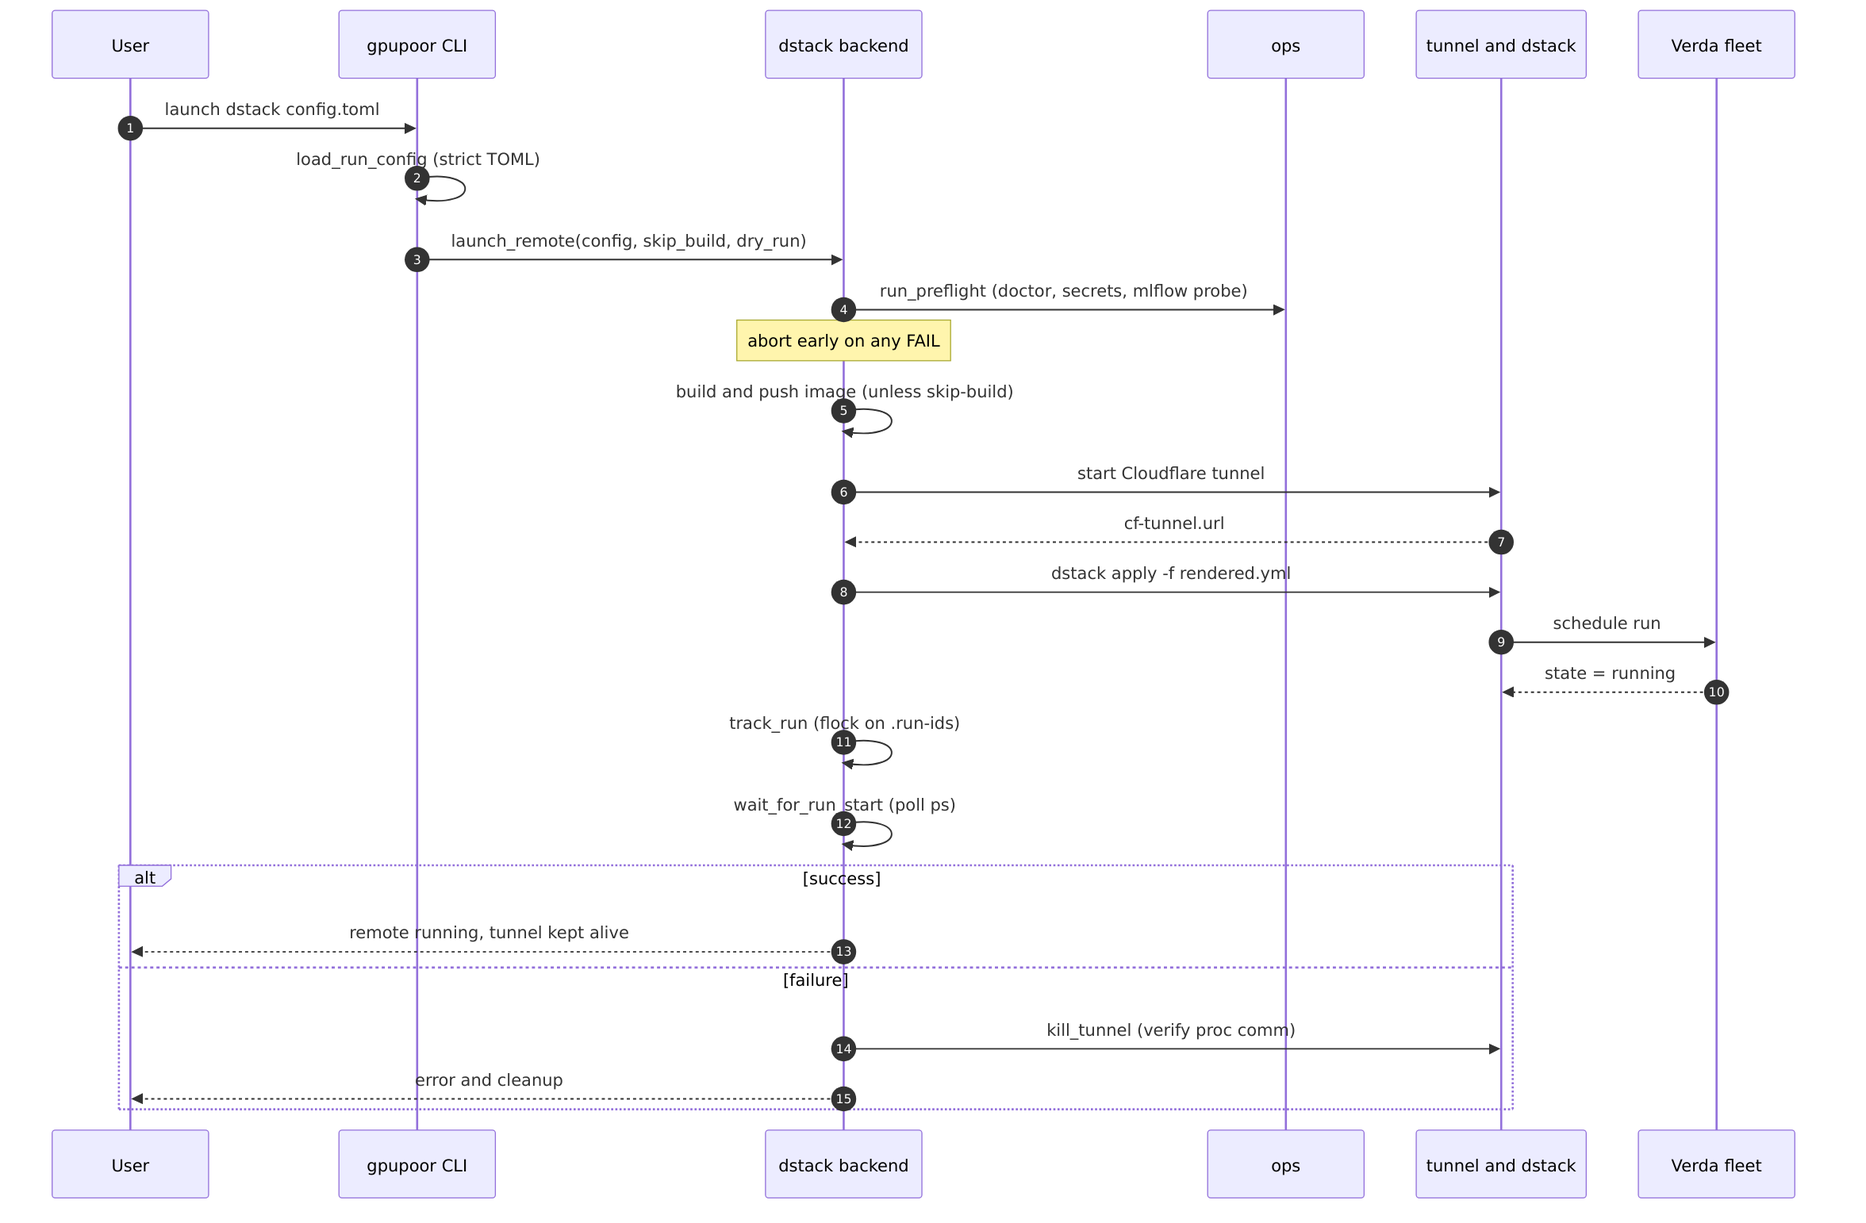
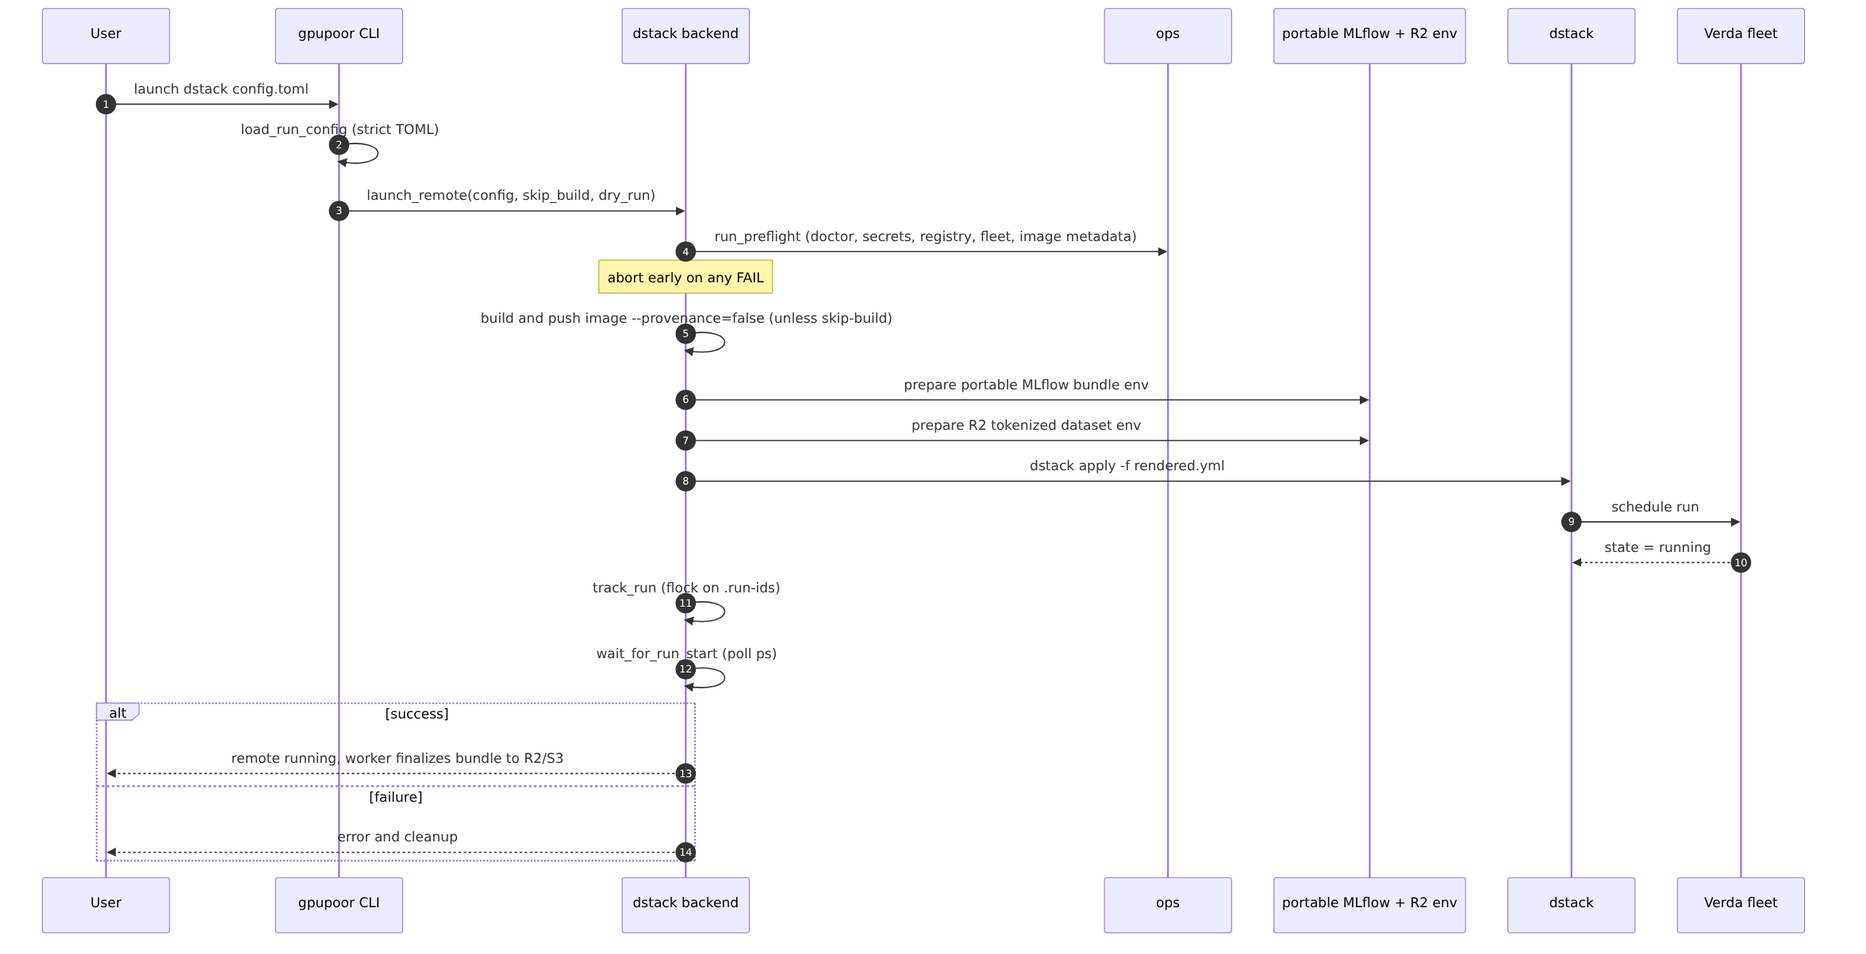
Document the live RunPod MiniMind operating path
Capture the current remote training system after the RTX 5090 validation: TOML transport, dstack launch policy, direct RunPod recovery, bounded R2 tokenized dataset pulls, portable MLflow bundle finalization, and the SSH-inspectable remote image contract. Keep this as documentation-only cleanup so protected abstractions remain untouched.

Constraint: The stable public contract remains gpupoor launch dstack with TOML config transport.
Constraint: Direct RunPod deployment is documented as an operator fallback for dstack capacity acquisition failures, not a promoted stable API.
Rejected: Reintroduce host MLflow and Cloudflare tunnel as the primary remote path | portable worker-local MLflow is the current design.
Confidence: high
Scope-risk: narrow
Directive: Do not modify protected trainer abstractions to paper over provider operations; update the docs or concrete launch/runtime layer instead.
Tested: uv run ruff check .
Tested: uv run pytest tests/test_import_boundaries.py tests/test_remote_backend.py

diff --git a/README.md b/README.md
@@ -8,7 +8,7 @@
 ![deps](https://img.shields.io/badge/runtime_deps-0-brightgreen)
 ![target](https://img.shields.io/badge/audience-GPU--poor_researchers-orange)
 
-The **GPU-poor researcher's toolbox.** One typed TOML file drives one reproducible run of the **MiniMind** reference recipe — on your laptop CPU, a single local GPU, or an **auto-allocated preemptible GPU** on Verda/dstack. Live MLflow tracking and cheap-to-fail preflights catch misconfiguration before you spend a cent.
+The **GPU-poor researcher's toolbox.** One typed TOML file drives one reproducible run of the **MiniMind** reference recipe — on your laptop CPU, a single local GPU, or a rented remote GPU through the dstack launch contract. Portable MLflow bundles and cheap-to-fail preflights catch misconfiguration before you spend a cent.
 
 ---
 
@@ -16,11 +16,11 @@ The **GPU-poor researcher's toolbox.** One typed TOML file drives one reproducib
 
 Research and engineering explorations shouldn't require a lab budget. `gpupoor` targets the gap between "train in Colab" and "run on a real cluster":
 
-- **Preemptible auto-allocation.** Declare `spot_policy = "spot"` + `max_price` + `gpu_names` in TOML. The CLI asks dstack for the cheapest **live spot offer** that matches your GPU class (A100, B300, H100 …) and schedules your run. You pay spot rate for the minutes you use — nothing else.
+- **Preemptible auto-allocation.** Declare `spot_policy = "spot"` + `max_price` + `gpu_names` in TOML. The CLI asks dstack for the cheapest **live spot offer** that matches your GPU class (A100, B300, H100, RTX 5090, and similar) and schedules your run. You pay spot rate for the minutes you use — nothing else.
 - **MiniMind as the first-class recipe.** A small-but-complete transformer training loop — not a toy, not a framework. Designed to actually train to completion in minutes on a rented GPU, so you can iterate on architecture/data ideas at research speed.
 - **Identical local ↔ remote contract.** Same TOML, same recipe, same artifacts. Smoke on CPU first, then swap one field (`backend.kind = "dstack"`) and rent a GPU.
 - **Zero runtime dependencies.** The core package adds nothing to your Python environment. Dev extras are opt-in.
-- **Cheap failure first.** `gpupoor doctor` + `gpupoor smoke` verify secrets, clocks, disk, docker, and MLflow reachability before `dstack apply` is ever called. Money-spending calls are the last step, never the first.
+- **Cheap failure first.** `gpupoor doctor` + `gpupoor smoke` verify secrets, clocks, disk, docker, registry policy, R2 access, and the remote image contract before `dstack apply` is ever called. Money-spending calls are the last step, never the first.
 
 ### Who this is for
 
@@ -60,22 +60,23 @@ gpupoor train examples/tiny_local.toml   # tiny MiniMind local run
 
 This is your fast feedback loop. Iterate here until the recipe is happy, then rent a GPU.
 
-### 2. Preemptible GPU on Verda/dstack
+### 2. Preemptible GPU through dstack
 
 ```bash
-gpupoor infra mlflow up                              # local MLflow + Cloudflare tunnel
-gpupoor launch dstack examples/verda_a100_10m.toml   # auto-allocates cheapest preemptible A100
+gpupoor launch dstack examples/verda_a100_10m.toml   # auto-allocates cheapest matching preemptible GPU
 ```
 
 What `launch dstack` actually does:
 
-1. Loads the TOML and runs preflight locally (doctor, mlflow reachable, secrets resolved).
-2. Builds and pushes your training image (skip with `--skip-build` to reuse an existing tag).
-3. Opens a **Cloudflare tunnel** so the remote trainer can stream metrics to *your* local MLflow.
+1. Loads the TOML and runs preflight locally (doctor, secrets, registry, fleet, cached image metadata).
+2. Builds and pushes your training image without provenance attestations, unless `--skip-build` reuses an existing tag.
+3. Passes the portable MLflow bundle contract and bounded R2 tokenized dataset settings into the remote task.
 4. Asks dstack for the cheapest **live preemptible offer** matching `gpu_names`, `gpu_count`, and `max_price`.
-5. Applies the run, tails logs, and keeps the tunnel alive until `gpupoor dstack teardown`.
+5. Applies the run and tails logs while the worker runs MiniMind, writes local MLflow SQLite/artifacts, and uploads the bundle to R2/S3 at finalize.
 
 The TOML in the example sets `max_price = 3.0` USD/hr and `time_cap_seconds = 600` — **bounded at $0.50 per run in the absolute worst case**, and in practice the winning spot bid is usually a small fraction of the ceiling. `time_cap_seconds` is a hard wall-clock ceiling enforced inside the trainer, so the run self-terminates before the price ever surprises you.
+
+For the validated RTX 5090 RunPod operating lane, including the direct RunPod recovery path used when dstack capacity acquisition bounces despite advertised offers, see [docs/runpod-rtx5090-minimind.md](./docs/runpod-rtx5090-minimind.md).
 
 ### 3. Dry-run the remote plan (free)
 
@@ -94,24 +95,24 @@ Prints the resolved `dstack apply` shape (image, env, GPU filter, time cap) with
 ## Architecture
 
 <p align="center">
-  <img src="docs/diagrams/architecture.png" alt="gpupoor architecture — CLI and wrapper entrypoints feed typed config, seeker, deployer, and connector control-plane modules, then branch into local or dstack execution with MLflow, Cloudflare, R2, and training runtime dependencies" width="820">
+  <img src="docs/diagrams/architecture.png" alt="gpupoor architecture — CLI and wrapper entrypoints feed typed config, deployer, connector, portable MLflow, local execution, dstack execution, R2, and MiniMind training runtime dependencies" width="820">
 </p>
 
 <sub><a href="./docs/diagrams/architecture.mmd">source (Mermaid)</a></sub>
 
-**Core contract:** the CLI loads one TOML into a `RunConfig` dataclass, resolves the `backend.kind`, and hands off through the current control-plane seams: `seeker` for queued remote placement, `deployer` for launch gating, `connector` for MLflow/tunnel/R2 readiness, and then the local or dstack execution backends. Everything else — MLflow, emulator flows, and repo checks — stays reachable from the same CLI surface.
+**Core contract:** the CLI loads one TOML into a `RunConfig` dataclass, resolves the `backend.kind`, and hands off through the current control-plane seams: `deployer` for launch gating, `connector` for R2/artifact readiness, `services/portable_mlflow.py` for the worker-local tracking bundle, and then the local or dstack execution backends. Everything else — emulator flows, legacy infra helpers, and repo checks — stays reachable from the same CLI surface.
 
 ---
 
 ## Remote launch flow
 
 <p align="center">
-  <img src="docs/diagrams/launch-sequence.png" alt="Remote launch sequence — preflight, build, tunnel, dstack apply, wait, success or cleanup" width="820">
+  <img src="docs/diagrams/launch-sequence.png" alt="Remote launch sequence — preflight, image build, portable MLflow env, R2 dataset settings, dstack apply, wait, success or cleanup" width="820">
 </p>
 
 <sub><a href="./docs/diagrams/launch-sequence.mmd">source (Mermaid)</a></sub>
 
-Source of truth: [`src/gpupoor/backends/dstack.py`](./src/gpupoor/backends/dstack.py) (`launch_remote`, `ensure_dstack_server`, `track_run`, `kill_tunnel`).
+Source of truth: [`src/gpupoor/backends/dstack.py`](./src/gpupoor/backends/dstack.py) (`launch_remote`, `ensure_dstack_server`, `track_run`) plus [`src/gpupoor/services/portable_mlflow.py`](./src/gpupoor/services/portable_mlflow.py).
 
 ---
 
@@ -123,7 +124,7 @@ gpupoor <command> [flags]
 
 | Command                                                     | Purpose                                                             | Notable flags                                |
 | ----------------------------------------------------------- | ------------------------------------------------------------------- | -------------------------------------------- |
-| `gpupoor doctor [config.toml]`                              | Local preflight: clocks, disk, docker, HF token, MLflow reachability | `--skip-preflight`, `--max-clock-skew N`     |
+| `gpupoor doctor [config.toml]`                              | Local preflight: clocks, disk, docker, HF token, registry, R2/artifact readiness | `--skip-preflight`, `--max-clock-skew N`     |
 | `gpupoor smoke [config.toml]`                               | End-to-end smoke against the local emulator                         | `--cpu`, `--prune-volumes`, `--skip-preflight` |
 | `gpupoor fix-clock [config.toml]`                           | Resync WSL/container clock against host                             | —                                            |
 | `gpupoor parse-secrets [secrets]`                           | Resolve `secrets` file into `.env.*` format                         | —                                            |
@@ -133,7 +134,7 @@ gpupoor <command> [flags]
 | `gpupoor launch dstack <config.toml>`                       | Launch the remote backend                                           | `--skip-build`, `--dry-run`                  |
 | `gpupoor deploy local-emulator <config.toml>`               | Canonical local pre-remote validation via the remote wrapper contract | —                                          |
 | `gpupoor dstack <setup\|registry-login\|fleet-apply\|teardown>` | dstack lifecycle helpers                                            | `--dry-run` (`registry-login`)               |
-| `gpupoor infra mlflow <up\|down\|logs\|tunnel>`             | MLflow + Cloudflare tunnel                                          | —                                            |
+| `gpupoor infra mlflow <up\|down\|logs\|tunnel>`             | Legacy host MLflow + Cloudflare tunnel helper                      | —                                            |
 | `gpupoor infra emulator <up\|cpu\|nvcr\|down\|logs\|shell\|health>` | Pseudo-Verda smoke harness (non-canonical for training validation) | —                                            |
 
 `doctor`, `smoke`, and `launch dstack` resolve operational defaults from the typed TOML config first; CLI flags are one-off overrides.
@@ -152,7 +153,7 @@ Every run is one TOML file. Unknown keys are rejected at load time.
 | `[mlflow]`   | `MlflowConfig`    | `experiment_name`, `tracking_uri`, `artifact_upload`, `enable_system_metrics_logging`, `http_request_timeout_seconds`, `peak_tflops_per_gpu` (optional override), `time_to_target_metric`, `time_to_target_value` |
 | `[doctor]`   | `DoctorConfig`    | `skip_preflight`, `max_clock_skew_seconds`                                                                        |
 | `[smoke]`    | `SmokeConfig`     | `cpu`, `health_port`, `strict_port`, `degraded_port`, `sigterm_timeout_seconds`, `prune_volumes`                   |
-| `[remote]`   | `RemoteConfig`    | `env_file`, `vcr_image_base`, `dstack_server_health_url`, `mlflow_health_url`, `run_start_timeout_seconds`, `gpu_names`, `gpu_count`, `spot_policy`, `max_price` |
+| `[remote]`   | `RemoteConfig`    | `env_file`, `vcr_image_base`, `dstack_server_health_url`, `run_start_timeout_seconds`, `gpu_names`, `gpu_count`, `spot_policy`, `max_price`, `r2_tokenized_dataset_uri`, `r2_tokenized_dataset_max_files`, `r2_tokenized_dataset_dir` |
 
 Full schema + validators live in [`src/gpupoor/config.py`](./src/gpupoor/config.py).
 
@@ -209,7 +210,7 @@ Three env templates ship at the repo root:
 | Template                | Purpose                                       |
 | ----------------------- | --------------------------------------------- |
 | `.env.example.mgmt`     | Management plane (dstack tokens, registry)    |
-| `.env.example.remote`   | Remote training container (HF, MLflow, tunnel)|
+| `.env.example.remote`   | Remote training container (HF, R2, portable MLflow bundle)|
 | `.env.example.inference`| Inference container (HF, model paths)         |
 
 Copy to the matching `.env.*` name, fill in secrets, and `gpupoor parse-secrets` will resolve them into a form the CLI consumes.
@@ -238,7 +239,7 @@ remote-access/
 ├── training/                    # MiniMind reference code (vendored)
 ├── dstack/                      # Verda/dstack runtime contract
 ├── infrastructure/
-│   ├── mlflow/                  # MLflow container + Cloudflare tunnel
+│   ├── mlflow/                  # legacy host MLflow container + Cloudflare tunnel
 │   └── local-emulator/          # CPU-only smoke harness
 ├── tests/                       # fast-lane regression tests
 ├── data/                        # datasets + caches (gitignored where large)
@@ -263,6 +264,8 @@ Per-component starters (`./training/start.sh`, `./dstack/start.sh`, `./infrastru
 ## Safety posture
 
 - **Strict TOML** — unknown keys rejected; dstack run-names regex-gated.
+- **Image policy** — Docker Hub images use unprefixed names, private registries require auth, and remote builds are checked for no provenance attestations.
+- **Portable artifacts** — remote workers finalize MLflow SQLite/artifact bundles even when training fails.
 - **PID verification** — tunnel teardown verifies `/proc/<pid>/comm` matches `cloudflared` on Linux before `os.kill`.
 - **Concurrent-safe state** — `.run-ids` append is protected by `fcntl.flock`; two concurrent launches cannot corrupt it.
 
@@ -274,8 +277,10 @@ Per-component starters (`./training/start.sh`, `./dstack/start.sh`, `./infrastru
 - [TROUBLESHOOTING.md](./TROUBLESHOOTING.md) — operator recovery playbook
 - [CONTRIBUTING.md](./CONTRIBUTING.md) — contributor guardrails
 - [training/docs/README.md](./training/docs/README.md) — MiniMind recipe internals
+- [docs/runpod-rtx5090-minimind.md](./docs/runpod-rtx5090-minimind.md) — validated RunPod RTX 5090 + R2 + portable MLflow operations
+- [docs/remote-training-smoke.md](./docs/remote-training-smoke.md) — Docker/R2/portable MLflow remote contract smoke
 - [dstack/docs/README.md](./dstack/docs/README.md) — Verda/dstack runtime contract
-- [infrastructure/mlflow/docs/README.md](./infrastructure/mlflow/docs/README.md) — MLflow + tunnel
+- [infrastructure/mlflow/docs/README.md](./infrastructure/mlflow/docs/README.md) — legacy host MLflow + tunnel
 - [infrastructure/local-emulator/docs/README.md](./infrastructure/local-emulator/docs/README.md) — emulator smoke harness
 
 ---

diff --git a/docs/runpod-rtx5090-minimind.md b/docs/runpod-rtx5090-minimind.md
@@ -1,0 +1,152 @@
+# RunPod RTX 5090 MiniMind Operations
+
+This document describes the current live GPU operating path validated on
+May 11, 2026. It is an operator note for the existing system, not a new public
+API. The stable launch contract remains TOML-driven `gpupoor launch dstack`;
+the direct RunPod lane is the recovery path used when dstack advertises RTX
+5090 offers but task startup repeatedly returns provider capacity failures.
+
+No secrets belong in committed files or command transcripts.
+
+## Current Flow
+
+```text
+TOML config
+  -> RunConfig dataclasses
+  -> remote image/env selection
+  -> GPUPOOR_RUN_CONFIG_B64
+  -> remote-entrypoint.sh
+  -> bounded R2 tokenized dataset pull
+  -> portable MLflow server in the worker
+  -> run-vendor-minimind.py
+  -> minimind-train
+  -> sync-mlflow-bundle.py
+  -> R2 MLflow bundle
+```
+
+The remote worker is self-contained. It does not require a host MLflow service
+or a Cloudflare tunnel. The worker starts an MLflow server on localhost, writes
+SQLite metadata plus artifacts under `/workspace/mlflow-bundle`, and uploads the
+finished bundle when `MLFLOW_BUNDLE_SYNC_URI` is present.
+
+## Image Contract
+
+The remote image must include:
+
+- gpupoor shared code and `training/scripts/*`.
+- The vendored `training/vendor/minimind_mfu_working` package.
+- PyTorch/CUDA dependencies from the model-training Dockerfile contract.
+- `openssh-server` so a provider-injected `PUBLIC_KEY` can be used for live
+  inspection.
+
+The most recent validated image tag was:
+
+```text
+alextay96/gpupoor:3093fed
+sha256:6ba4e0931daaf911db04e243a9adb5c70c72d95e88ddeaeda8fa52e19a349a38
+```
+
+Remote images are built with `docker buildx build --provenance=false`. dstack
+preflight checks the cached image metadata before a real `dstack apply`, because
+the dstack/dxf manifest path cannot tolerate provenance attestation manifests.
+
+## Dataset Contract
+
+The current remote tokenized dataset is:
+
+```text
+s3://gpu-poor/dataset/processed/tokenized/native-superbpe-1m-rows-max4w/20260503T002359Z
+/workspace/data/datasets/native_superbpe_1m_rows_max4w/20260503T002359Z
+```
+
+The manifest has `2729` parquet parts:
+
+- `78` `final` parts.
+- `2651` `fineweb` parts.
+
+For small live validation, set `R2_TOKENIZED_DATASET_MAX_FILES=80`. That pulls
+all `final` parts plus the first two `fineweb` parts and used about `34G` of
+disk in the validated run. Set the max-files value to `0` only when the worker
+disk is sized for the full prefix.
+
+## Portable MLflow Contract
+
+The host passes environment only:
+
+```text
+GPUPOOR_PORTABLE_MLFLOW=1
+MLFLOW_BUNDLE_DIR=/workspace/mlflow-bundle
+MLFLOW_BUNDLE_SYNC_URI=s3://gpu-poor/mlflow-bundles/<run-id>
+AWS_ACCESS_KEY_ID=...
+AWS_SECRET_ACCESS_KEY=...
+AWS_DEFAULT_REGION=...
+MLFLOW_S3_ENDPOINT_URL=...
+```
+
+The worker script owns server start, process cleanup, and upload. If training
+fails, the bundle is still finalized so the SQLite DB and logs can be inspected.
+
+## Deployment Notes
+
+Use `gpupoor launch dstack --dry-run <config.toml>` before any paid run. A real
+dstack apply must pass:
+
+- Registry policy and credentials checks.
+- No-`docker.io/` image prefix validation.
+- Cached image metadata matching the selected image base/tag.
+- `provenance_attestation=false`.
+- Fleet readiness for the configured fleet.
+
+If dstack repeatedly reports `failed_to_start_due_to_no_capacity` for RTX 5090
+while RunPod itself still has advertised machines, the operational fallback is a
+direct RunPod pod with the same image, env, dataset, and portable MLflow
+contract. That fallback should not be routed through `experiment_executor.py` or
+`experiment_models.py`.
+
+## Monitoring
+
+After direct RunPod allocation, inspect the pod and SSH endpoint:
+
+```bash
+runpodctl pod get <pod-id> -o json
+runpodctl ssh info <pod-id> -o json
+```
+
+SSH with the operator key:
+
+```bash
+ssh -i /home/geeyang/.runpod/ssh/RunPod-Key-Go \
+  -p <ssh-port> root@<ssh-host>
+```
+
+Useful in-worker checks:
+
+```bash
+nvidia-smi
+df -h /workspace
+find /workspace/data/datasets/native_superbpe_1m_rows_max4w/20260503T002359Z -name '*.parquet' | wc -l
+tail -f /workspace/mlflow-bundle/server.log
+find /workspace/out -maxdepth 3 -type f | sort | tail
+```
+
+## Completion And Cleanup
+
+A successful smoke-scale live run should prove:
+
+- Dataset pull completed with the expected parquet count.
+- Portable MLflow server started and stopped cleanly.
+- MiniMind reached the configured step limit.
+- Checkpoints were written.
+- The bundle was uploaded to R2/S3.
+- The pod was terminated after artifact verification.
+
+The May 11, 2026 RTX 5090 validation reached step `200`, wrote checkpoints at
+`50`, `100`, `150`, and `200`, and uploaded three MLflow bundle files
+(`mlflow.db`, `mlflow.backup.db`, and `server.log`) to:
+
+```text
+s3://gpu-poor/mlflow-bundles/runpod-rtx5090-minimind-20260511T172053Z/
+```
+
+The observed step-200 metrics were loss `8.254802227020264`, about `91k`
+tokens/sec, and about `893` model TFLOPs/sec on an NVIDIA GeForce RTX 5090.

diff --git a/ARCHITECTURE.md b/ARCHITECTURE.md
@@ -90,6 +90,12 @@ The local Docker verification flow is documented in
 automated bounded R2 parquet pull, a one-step vendored MiniMind run, and
 portable MLflow bundle upload.
 
+The live RTX 5090 RunPod operating path, including the direct provider fallback
+used when dstack capacity acquisition bounces despite advertised offers, is
+documented in `docs/runpod-rtx5090-minimind.md`. That path keeps the same image,
+TOML transport, R2 dataset, and portable MLflow contract as the stable dstack
+launch path.
+
 ## dstack Policy Boundary
 
 dstack 0.20.x resolves Docker image manifests through `python-dxf`, so the

diff --git a/docs/remote-training-smoke.md b/docs/remote-training-smoke.md
@@ -88,4 +88,6 @@ The successful smoke prints:
 On hosts without an NVIDIA driver, this smoke intentionally uses CPU. It proves
 the image, R2 dataset pull, TOML transport, portable MLflow, and vendored trainer
 adapter. A live GPU run still requires a dstack worker with NVIDIA runtime
-available.
+available, or the documented direct RunPod fallback when dstack cannot acquire
+advertised RTX 5090 capacity. See `docs/runpod-rtx5090-minimind.md` for the live
+RunPod operating notes.
